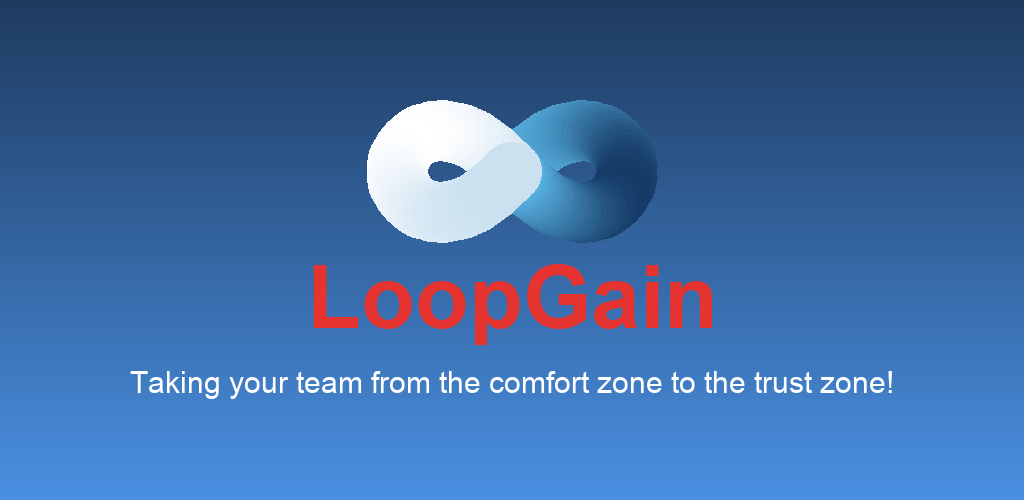
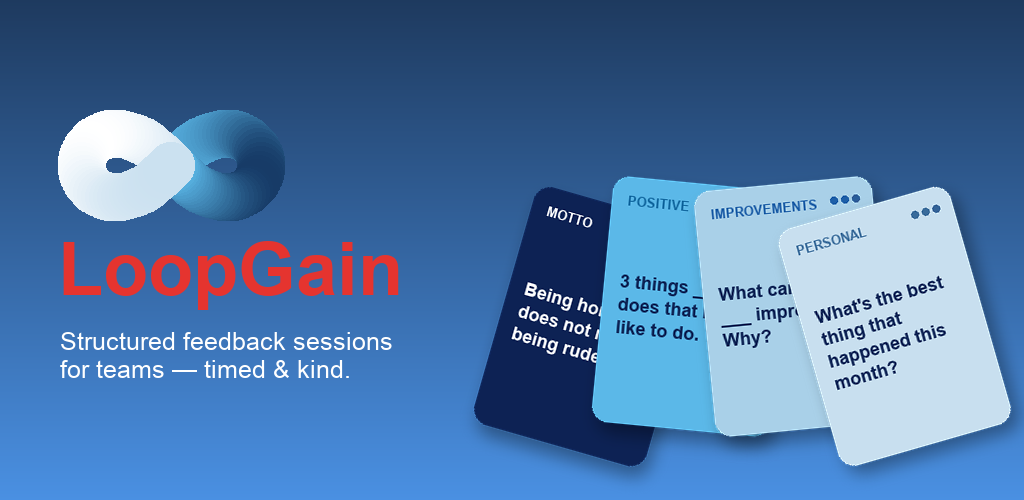
docs(store-listing): redesign feature graphic with a fanned hand of deck cards
The plain logo-and-gradient banner read as generic. Add a fanned hand of four
cards (Motto, Positive Reinforcement, Improvements, Personal Question) using
the exact colors from CardStyles.kt and real deck question text, so the
graphic reads as "a card-deck feedback app" at a glance.

diff --git a/docs/store-listing/assets/graphics/generate_feature_graphic.py b/docs/store-listing/assets/graphics/generate_feature_graphic.py
@@ -1,8 +1,12 @@
 import re
+import math
 from PIL import Image, ImageDraw, ImageFont
 
 W, H = 1024, 500
 VIEWPORT = 108.0
+
+ARIAL = "/System/Library/Fonts/Supplemental/Arial.ttf"
+ARIAL_BOLD = "/System/Library/Fonts/Supplemental/Arial Bold.ttf"
 
 RIGHT_PATH = "M54.13,53.88 L54.66,53.35 L55.31,52.69 L55.98,52.04 L56.66,51.40 L57.35,50.77 L58.06,50.14 L58.79,49.53 L59.54,48.94 L60.33,48.36 L61.14,47.81 L61.99,47.30 L62.88,46.81 L63.81,46.38 L64.78,45.99 L65.79,45.67 L66.83,45.41 L67.92,45.24 L69.03,45.16 L70.17,45.19 L71.32,45.34 L72.47,45.62 L73.60,46.03 L74.68,46.59 L75.70,47.29 L76.63,48.14 L77.44,49.13 L78.10,50.23 L78.59,51.43 L78.90,52.70 L79.00,54.00 L78.90,55.30 L78.59,56.57 L78.10,57.77 L77.44,58.87 L76.63,59.86 L75.70,60.71 L74.68,61.41 L73.60,61.97 L72.47,62.38 L71.32,62.66 L70.17,62.81 L69.03,62.84 L67.92,62.76 L66.83,62.59 L65.79,62.33 L64.78,62.01 L63.81,61.62 L62.88,61.19 L61.99,60.70 L61.14,60.19 L60.33,59.64 L59.54,59.06 L58.79,58.47 L58.06,57.86 L57.35,57.23 L56.66,56.60 L55.98,55.96 L55.31,55.31 L54.66,54.65 L54.13,54.12"
 RIGHT_GRAD = dict(sx=58, sy=47, ex=76, ey=61, sc=(0x5B, 0xB8, 0xE8), ec=(0x16, 0x3A, 0x66))
@@ -38,7 +42,6 @@ BBOX_H = BBOX_MAX_Y - BBOX_MIN_Y
 
 
 def draw_mark(draw, ox, oy, scale, stroke_units=13.0):
-    """ox, oy = top-left of the mark's visible (stroke-padded) bounding box."""
     stroke = stroke_units * scale
     pad = stroke / 2
 
@@ -64,48 +67,151 @@ def draw_mark(draw, ox, oy, scale, stroke_units=13.0):
         draw.ellipse([pl[0] - r, pl[1] - r, pl[0] + r, pl[1] + r], fill=cl + (255,))
 
 
+def wrap_text(draw, text, font, max_width):
+    words = text.split()
+    lines = []
+    cur = ""
+    for w in words:
+        trial = (cur + " " + w).strip()
+        if draw.textbbox((0, 0), trial, font=font)[2] <= max_width:
+            cur = trial
+        else:
+            if cur:
+                lines.append(cur)
+            cur = w
+    if cur:
+        lines.append(cur)
+    return lines
+
+
+# ---- one printed-deck card, as its own RGBA sprite (with room to rotate) ----
+CARD_W, CARD_H = 178, 246
+CARD_RADIUS = 16
+
+
+def make_card(bg, fg, label_color, label, question, dots=None):
+    pad_canvas = 60  # room for rotation without clipping
+    size = (CARD_W + pad_canvas * 2, CARD_H + pad_canvas * 2)
+    sprite = Image.new("RGBA", size, (0, 0, 0, 0))
+    d = ImageDraw.Draw(sprite)
+    x0, y0 = pad_canvas, pad_canvas
+    x1, y1 = x0 + CARD_W, y0 + CARD_H
+
+    # soft shadow
+    shadow = Image.new("RGBA", size, (0, 0, 0, 0))
+    sd = ImageDraw.Draw(shadow)
+    sd.rounded_rectangle([x0 + 6, y0 + 10, x1 + 6, y1 + 10], radius=CARD_RADIUS, fill=(0, 0, 0, 90))
+    shadow = shadow.filter(__import__("PIL.ImageFilter", fromlist=["ImageFilter"]).GaussianBlur(8))
+    sprite = Image.alpha_composite(shadow, sprite)
+    d = ImageDraw.Draw(sprite)
+
+    d.rounded_rectangle([x0, y0, x1, y1], radius=CARD_RADIUS, fill=bg + (255,))
+
+    font_label = ImageFont.truetype(ARIAL_BOLD, 13)
+    d.text((x0 + 16, y0 + 17), label.upper(), font=font_label, fill=label_color + (255,))
+
+    if dots is not None:
+        r = 3.5
+        gap = 11
+        dy = y0 + 22
+        for i in range(3):
+            color = label_color if i < dots else (label_color[0], label_color[1], label_color[2], 90)
+            cx = x1 - 16 - (2 - i) * gap
+            fillc = color if len(color) == 4 else color + (255,)
+            d.ellipse([cx - r, dy - r, cx + r, dy + r], fill=fillc)
+
+    font_q = ImageFont.truetype(ARIAL_BOLD, 18)
+    lines = wrap_text(d, question, font_q, CARD_W - 32)
+    line_h = 23
+    text_block_h = line_h * len(lines)
+    ty = y0 + CARD_H / 2 - text_block_h / 2 + 6
+    for line in lines:
+        d.text((x0 + 16, ty), line, font=font_q, fill=fg + (255,))
+        ty += line_h
+
+    return sprite, pad_canvas
+
+
+def paste_rotated(base, sprite, pad_canvas, center_xy, angle_deg):
+    rotated = sprite.rotate(angle_deg, resample=Image.BICUBIC, expand=True)
+    cx, cy = center_xy
+    px = round(cx - rotated.width / 2)
+    py = round(cy - rotated.height / 2)
+    base.alpha_composite(rotated, (px, py))
+
+
+NAVY = (0x0D, 0x22, 0x54)
+WHITE = (255, 255, 255)
+POS_BG = (0x5B, 0xB8, 0xE8)
+IMP_BG = (0xA9, 0xD0, 0xE8)
+PQ_BG = (0xC8, 0xDF, 0xEF)
+TEXT_ON_LIGHT = (0x0D, 0x22, 0x54)
+POS_LABEL = (0x12, 0x68, 0xA0)
+IMP_LABEL = (0x1E, 0x5F, 0xA8)
+PQ_LABEL = (0x3A, 0x6C, 0x9B)
+
 # background vertical gradient, matches LoadingScreen (#1E3A5F -> #4A90E2)
 top = (0x1E, 0x3A, 0x5F)
 bottom = (0x4A, 0x90, 0xE2)
 img = Image.new("RGBA", (W, H), (0, 0, 0, 255))
+px = img.load()
 for y in range(H):
     t = y / (H - 1)
     c = lerp(top, bottom, t)
-    ImageDraw.Draw(img).line([(0, y), (W, y)], fill=c + (255,))
+    for x in range(W):
+        px[x, y] = c + (255,)
 
 draw = ImageDraw.Draw(img)
 
-# vertical lockup: mark, then wordmark, then tagline — all horizontally centered
-mark_scale = 4.6
+# ---- right side: a fanned hand of four printed cards ----
+cards = [
+    make_card(NAVY, WHITE, WHITE, "Motto", "Being honest does not mean being rude.", dots=None),
+    make_card(POS_BG, TEXT_ON_LIGHT, POS_LABEL, "Positive",
+              "3 things ___ does that I'd also like to do.", dots=2),
+    make_card(IMP_BG, TEXT_ON_LIGHT, IMP_LABEL, "Improvements",
+              "What can I help ___ improve? Why?", dots=2),
+    make_card(PQ_BG, TEXT_ON_LIGHT, PQ_LABEL, "Personal",
+              "What's the best thing that happened this month?", dots=2),
+]
+
+fan_center = (742, 300)
+angles = [-16, -5.5, 5.5, 16]
+offsets = [(-152, 26), (-51, 6), (51, 6), (152, 26)]
+for (sprite, pad), angle, (ox, oy) in zip(cards, angles, offsets):
+    paste_rotated(img, sprite, pad, (fan_center[0] + ox, fan_center[1] + oy), angle)
+
+# ---- left side: mark + wordmark + tagline, left aligned ----
+draw = ImageDraw.Draw(img)
+mark_scale = 3.6
 mark_w = (BBOX_W + 13.0) * mark_scale
 mark_h = (BBOX_H + 13.0) * mark_scale
 
-font_word = ImageFont.truetype("/System/Library/Fonts/Supplemental/Arial Bold.ttf", 88)
+font_word = ImageFont.truetype(ARIAL_BOLD, 74)
 word_text = "LoopGain"
 wb = draw.textbbox((0, 0), word_text, font=font_word)
 word_w = wb[2] - wb[0]
 word_h = wb[3] - wb[1]
 
-font_tag = ImageFont.truetype("/System/Library/Fonts/Supplemental/Arial.ttf", 30)
-tagline = "Taking your team from the comfort zone to the trust zone!"
-tb = draw.textbbox((0, 0), tagline, font=font_tag)
-tw = tb[2] - tb[0]
-th = tb[3] - tb[1]
+font_tag = ImageFont.truetype(ARIAL, 25)
+tagline1 = "Structured feedback sessions"
+tagline2 = "for teams — timed & kind."
+tb1 = draw.textbbox((0, 0), tagline1, font=font_tag)
+tb2 = draw.textbbox((0, 0), tagline2, font=font_tag)
 
-gap1, gap2 = 22, 26
-total_h = mark_h + gap1 + word_h + gap2 + th
-top_y = (H - total_h) / 2
+left_x = 58
+gap1, gap2, gap3 = 20, 22, 10
+total_h = mark_h + gap1 + word_h + gap2 + (tb1[3] - tb1[1]) + gap3 + (tb2[3] - tb2[1])
+top_y = (H - total_h) / 2 - 6
 
-mark_ox = (W - mark_w) / 2
-draw_mark(draw, mark_ox, top_y, mark_scale)
+draw_mark(draw, left_x, top_y, mark_scale)
 
-word_x = (W - word_w) / 2
 word_y = top_y + mark_h + gap1 - wb[1]
-draw.text((word_x, word_y), word_text, font=font_word, fill=(0xE5, 0x34, 0x2F, 255))
+draw.text((left_x, word_y), word_text, font=font_word, fill=(0xE5, 0x34, 0x2F, 255))
 
-tag_x = (W - tw) / 2
-tag_y = top_y + mark_h + gap1 + word_h + gap2 - tb[1]
-draw.text((tag_x, tag_y), tagline, font=font_tag, fill=(255, 255, 255, 235))
+tag_y1 = word_y + word_h + wb[1] + gap2 - tb1[1]
+draw.text((left_x + 2, tag_y1), tagline1, font=font_tag, fill=(255, 255, 255, 235))
+tag_y2 = tag_y1 + (tb1[3] - tb1[1]) + gap3 - tb2[1] + tb1[1]
+draw.text((left_x + 2, tag_y2), tagline2, font=font_tag, fill=(255, 255, 255, 235))
 
 import os
 out_path = os.path.join(os.path.dirname(__file__), "feature_graphic_1024x500.png")

diff --git a/docs/store-listing/assets/graphics/README.md b/docs/store-listing/assets/graphics/README.md
@@ -8,8 +8,11 @@ Both files here are generated, not hand-drawn, from the app's own brand source:
   `ic_launcher_background.xml` at full resolution, rather than upscaling the small
   (max 192×192) launcher PNGs in `androidApp/src/main/res/mipmap-*`.
 - `generate_feature_graphic.py` → `feature_graphic_1024x500.png` (Play Console feature
-  graphic). Same mark, plus the `LoopGainWordmark` red and the loading-screen's blue gradient
-  and tagline (`LoadingScreen.kt`), laid out as a static banner.
+  graphic). Same mark and the loading-screen's blue gradient and tagline (`LoadingScreen.kt`)
+  on the left; on the right, a fanned hand of four cards using the exact category colors and
+  label tints from `CardStyles.kt` (`CardColors.Motto`/`PositiveReinforcement`/`Improvements`/
+  `PersonalQuestion`), each with real deck question text, to make the graphic read as "a card
+  deck app" at a glance instead of a plain logo lockup.
 
 Re-run either script (`python3 generate_icon.py`) after the launcher icon or brand colors
 change, from inside this directory — each writes its PNG next to itself. Both need Pillow
